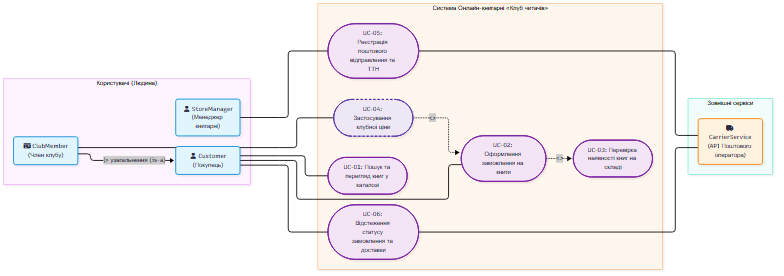
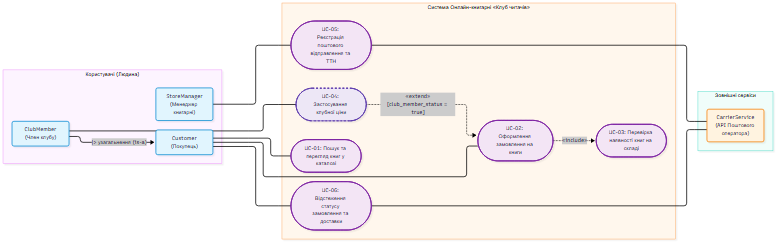
refactor(lab-2): regenerate requirements and use case diagram from refined spec

diff --git a/Labs/lab-2/requirements.md b/Labs/lab-2/requirements.md
@@ -9,7 +9,7 @@
 
 ## 1. Структуровані вимоги за шаблоном EARS
 
-Вимоги формалізовано відповідно до синтаксису **EARS (Easy Approach to Requirements Syntax)**, що забезпечує однозначність, структурованість і тестованість. Задіяно всі основні патерни EARS: *Event-driven*, *Unwanted behaviour*, *State-driven / Complex*, *Optional feature*, *Ubiquitous*. Усі сутності та атрибути точно відповідають ER-моделі Завдання 1 (`Customer`, `Author`, `Book`, `Order`, `OrderItem`, `Shipment`).
+Вимоги формалізовано відповідно до синтаксису **EARS (Easy Approach to Requirements Syntax)**, що забезпечує однозначність, атомарність, структурованість і тестованість. Кожна вимога містить рівно одну конструкцію `SHALL`, один визначений тригер або стан без конструкцій «або» та без вкладених умов. Задіяно всі основні патерни EARS: *Event-driven*, *Unwanted behaviour*, *State-driven / Complex*, *Optional feature*, *Ubiquitous*. Усі сутності та атрибути точно відповідають ER-моделі Завдання 1 (`Customer`, `Author`, `Book`, `Order`, `OrderItem`, `Shipment`).
 
 ### REQ-01: Пошук та фільтрація книг за автором або назвою
 * **Шаблон EARS:** *Event-driven* (`WHEN <trigger>, the <system> SHALL <response>`)
@@ -23,9 +23,9 @@
 ### REQ-02: Валідація залишку на складі перед оформленням
 * **Шаблон EARS:** *Unwanted behaviour* (`IF <trigger/condition>, THEN the <system> SHALL <response>`)
 * **Формулювання:**
-  > **IF** запитана покупцем кількість примірників у позиції замовлення перевищує доступний залишок на складі (`OrderItem.quantity > Book.stock_quantity`), **THEN the Bookstore System SHALL** відхилити додавання цієї позиції до замовлення, заблокувати перехід `Order.status` у підтверджений стан (`confirmed`) та повернути повідомлення про помилку із зазначенням доступної кількості.
+  > **IF** запитана покупцем кількість примірників у позиції замовлення перевищує доступний залишок на складі (`OrderItem.quantity > Book.stock_quantity`), **THEN the Bookstore System SHALL** відхилити додавання цієї позиції до замовлення, заблокувати перехід `Order.status` у стан `confirmed` та повернути повідомлення про помилку із зазначенням доступної кількості.
 * **Сутності та атрибути ER:** `Book` (`id`, `stock_quantity`), `OrderItem` (`quantity`, `book_id`), `Order` (`status`).
-* **Бізнес-контекст:** Реалізує захист від перепродажу (overselling) та гарантує виконання обов'язкової частини оформлення замовлення (UC-03 включено в UC-02).
+* **Бізнес-контекст:** Реалізує захист від перепродажу (overselling) та гарантує виконання обов'язкової частини оформлення замовлення (UC-03 «include» в UC-02).
 
 ---
 
@@ -43,25 +43,25 @@
 * **Формулювання:**
   > **WHERE** профіль покупця має активний статус члена клубу (`Customer.club_member_status = true`), **the Bookstore System SHALL** розраховувати та фіксувати значення `OrderItem.unit_price` зі спеціальною клубною знижкою 15% від базової ціни `Book.price` на момент оформлення замовлення.
 * **Сутності та атрибути ER:** `Customer` (`id`, `club_member_status`), `Book` (`id`, `price`), `OrderItem` (`id`, `unit_price`).
-* **Бізнес-контекст:** Забезпечує опціональне розширення оформлення замовлення (UC-04 `<<extend>>` UC-02) для спеціалізованого актора `ClubMember`.
+* **Бізнес-контекст:** Забезпечує опціональне розширення оформлення замовлення (UC-04 «extend» UC-02) для спеціалізованого актора `ClubMember`.
 
 ---
 
 ### REQ-05: Реєстрація поштового відправлення через API перевізника
 * **Шаблон EARS:** *Event-driven* (`WHEN <trigger>, the <system> SHALL <response>`)
 * **Формулювання:**
-  > **WHEN** StoreManager підтверджує готовність скомплектованого замовлення зі статусом `Order.status = 'processing'`, **the Bookstore System SHALL** надіслати запит на реєстрацію відправлення до API обраного сервісу доставки (`CarrierService` із параметром `carrier: nova_poshta | ukrposhta | courier`), створити запис `Shipment` з отриманим трек-номером (`tracking_number`), адресою (`delivery_address`), позначкою часу (`shipped_at`), статусом `delivery_status = 'dispatched'` та оновити `Order.status` на `'shipped'`.
+  > **WHEN** StoreManager підтверджує готовність скомплектованого замовлення зі статусом `Order.status = 'processing'`, **the Bookstore System SHALL** надіслати запит на реєстрацію відправлення до API обраного сервісу доставки (`CarrierService` із вибором `carrier: nova_poshta | ukrposhta | courier`), створити запис `Shipment` з отриманим трек-номером (`tracking_number`), адресою (`delivery_address`), позначкою часу (`shipped_at`), початковим статусом `delivery_status = 'dispatched'` та перевести `Order.status` у стан `'shipped'`.
 * **Сутності та атрибути ER:** `Order` (`id`, `status`), `Shipment` (`id`, `order_id`, `carrier`, `tracking_number`, `delivery_address`, `shipped_at`, `delivery_status`).
 * **Бізнес-контекст:** Взаємодія внутрішнього менеджера та зовнішньої служби доставки (UC-05).
 
 ---
 
 ### REQ-06: Синхронізація статусу доставки та завершення замовлення
-* **Шаблон EARS:** *Event-driven* (`WHEN <trigger>, the <system> SHALL <response>`)
+* **Шаблон EARS:** *Event-driven* (`WHEN <trigger>, the <system> SHALL <response>`) — *Атомарна вимога*
 * **Формулювання:**
-  > **WHEN** зовнішній сервіс `CarrierService` надсилає webhook-повідомлення або відповідь на опитування про зміну стану доставки, **the Bookstore System SHALL** оновити значення `Shipment.delivery_status`, а якщо статус доставки змінився на `'delivered'`, **the Bookstore System SHALL** автоматично встановити `Order.status = 'delivered'`.
+  > **WHEN** зовнішній сервіс `CarrierService` надсилає webhook-повідомлення про фінальне вручення посилки зі статусом `delivery_status = 'delivered'`, **the Bookstore System SHALL** оновити значення `Shipment.delivery_status` на `'delivered'` та перевести статус пов'язаного замовлення `Order.status` у стан `'delivered'`.
 * **Сутності та атрибути ER:** `Shipment` (`id`, `delivery_status`, `tracking_number`), `Order` (`id`, `status`).
-* **Бізнес-контекст:** Відстеження поштового відправлення та автоматичне закриття життєвого циклу замовлення (UC-06).
+* **Бізнес-контекст:** Фіналізація життєвого циклу доставки та замовлення на основі події від зовнішнього логістичного партнера (UC-06).
 
 ---
 
@@ -71,6 +71,24 @@
   > **The Bookstore System SHALL** гарантувати незмінність значення `OrderItem.unit_price` у збережених замовленнях за будь-яких подальших змін базової ціни `Book.price` у каталозі книг.
 * **Сутності та атрибути ER:** `OrderItem` (`id`, `unit_price`), `Book` (`id`, `price`), `Order` (`id`, `status`).
 * **Бізнес-контекст:** Забезпечує фінансову цілісність, відповідність вимогам 3-ї нормальної форми та узгодженість з архітектурним рішенням Завдання 1 (UC-02, UC-06).
+
+---
+
+### REQ-08: Сповіщення клієнта про передачу замовлення перевізнику
+* **Шаблон EARS:** *Event-driven* (`WHEN <trigger>, the <system> SHALL <response>`)
+* **Формулювання:**
+  > **WHEN** статус замовлення переходить у стан `Order.status = 'shipped'`, **the Bookstore System SHALL** згенерувати та надіслати повідомлення про відправлення із зазначенням трек-номера `Shipment.tracking_number` та служби `Shipment.carrier` на електронну адресу `Customer.email` та контактний телефон `Customer.phone` покупця.
+* **Сутності та атрибути ER:** `Order` (`status`), `Shipment` (`tracking_number`, `carrier`), `Customer` (`email`, `phone`).
+* **Бізнес-контекст:** Оперативне інформування покупця через комунікаційні канали зв'язку. Вимога зафіксована у специфікації для повної узгодженості атрибутів моделі даних, проте винесена за межі поточної ітерації (Out of Scope / Непокрита).
+
+---
+
+### REQ-09: Клієнтське скасування замовлення у стані очікування
+* **Шаблон EARS:** *State-driven / Complex* (`WHILE <state>, WHEN <trigger>, the <system> SHALL <response>`)
+* **Формулювання:**
+  > **WHILE** замовлення перебуває у стані очікування `Order.status = 'pending'`, **WHEN** покупець (`Customer`) ініціює дію скасування, **the Bookstore System SHALL** перевести статус замовлення в `Order.status = 'cancelled'` та збільшити складський залишок `Book.stock_quantity` на кількість примірників `OrderItem.quantity` із кожного рядка скасованого замовлення.
+* **Сутності та атрибути ER:** `Order` (`status`, `customer_id`), `Customer` (`id`), `OrderItem` (`quantity`), `Book` (`stock_quantity`).
+* **Бізнес-контекст:** Можливість відмови від замовлення до моменту його передачі в комплектацію з автоматичним поверненням зарезервованого товару на склад. Винесена в беклог наступного релізу (Out of Scope / Непокрита).
 
 ---
 
@@ -103,7 +121,7 @@
   > **Як** Покупець,  
   > **я хочу** обрати необхідну кількість примірників книг та оформити замовлення з автоматичною перевіркою залишку,  
   > **для того щоб** гарантовано придбати тільки ті книги, які реально присутні на складі книгарні.
-* **Пов'язані прецеденти:** `UC-02`, `UC-03` (`<<include>>`)
+* **Пов'язані прецеденти:** `UC-02`, `UC-03` (`«include»`)
 * **Критерії прийнятності (Acceptance Criteria):**
   1. Під час формування замовлення система автоматично перевіряє умову `Book.stock_quantity >= OrderItem.quantity` для кожного обраного найменування.
   2. Якщо хоча б однієї книги недостатньо, замовлення не створюється, статус залишається непогодженим, а користувач бачить попередження із зазначенням доступної кількості.
@@ -118,7 +136,7 @@
   > **Як** Член читацького клубу книгарні,  
   > **я хочу**, щоб під час оформлення замовлення до моїх книг автоматично застосовувалася спеціальна клубна ціна,  
   > **для того щоб** користуватися фінансовими привілеями членства клубу.
-* **Пов'язані прецеденти:** `UC-02`, `UC-04` (`<<extend>>`)
+* **Пов'язані прецеденти:** `UC-02`, `UC-04` (`«extend» [club_member_status = true]`)
 * **Критерії прийнятності (Acceptance Criteria):**
   1. Система визначає статус покупця `Customer.club_member_status = true`.
   2. Для кожної позиції замовлення клубна ціна обраховується як `Book.price * 0.85` (знижка 15%) і записується в `OrderItem.unit_price`.
@@ -162,7 +180,7 @@
 
 ## 3. Сценарії Gherkin (Given / When / Then)
 
-Сценарії приймального тестування покривають головні прецеденти використання системи (`UC-01` .. `UC-06`), перевіряючи позитивні потоки, граничні умови та обробку помилок.
+Сценарії приймального тестування покривають реалізовані прецеденти використання системи (`UC-01` .. `UC-06`), перевіряючи позитивні потоки, граничні умови та обробку виняткових ситуацій.
 
 ```gherkin
 Feature: Онлайн-книгарня «Клуб читачів» (Online Bookstore System)
@@ -202,7 +220,7 @@ Feature: Онлайн-книгарня «Клуб читачів» (Online Books
     Given покупець Customer із параметром club_member_status = false
     And книга "Інтернат" має stock_quantity = 5 та price = 300.00
     When покупець оформлює замовлення Order на 2 примірники книги "Інтернат"
-    Then система обов'язково перевіряє наявність книг на складі
+    Then система обов'язково перевіряє наявність книг на складі за зв'язком «include»
     And створюється запис Order зі статусом "confirmed"
     And створюється запис OrderItem із quantity = 2 та unit_price = 300.00
     And залишок stock_quantity книги "Інтернат" стає рівним 3
@@ -221,14 +239,14 @@ Feature: Онлайн-книгарня «Клуб читачів» (Online Books
     And залишок stock_quantity для книги "Ворошиловград" залишається рівним 2
 
   # ----------------------------------------------------------------------------
-  # UC-02 + UC-04: Застосування клубної ціни (<<extend>>)
+  # UC-02 + UC-04: Застосування клубної ціни («extend» [club_member_status = true])
   # ----------------------------------------------------------------------------
   @discount @club_member @UC-02 @UC-04
   Scenario: Оформлення замовлення членом клубу із застосуванням клубної знижки
     Given авторизовано користувача ClubMember із club_member_status = true
     And у каталозі книга "Інтернат" має базову price = 300.00 та stock_quantity = 5
     When член клубу підтверджує замовлення на 1 примірник книги "Інтернат"
-    Then спрацьовує правило розширення <<extend>> для застосування клубної ціни
+    Then спрацьовує правило розширення «extend» [club_member_status = true]
     And створюється позиція OrderItem із quantity = 1
     And зафіксована ціна OrderItem.unit_price дорівнює 255.00
     And при подальшій зміні базової вартості книги у каталозі до 350.00 значення unit_price у замовленні залишається 255.00
@@ -266,7 +284,7 @@ Feature: Онлайн-книгарня «Клуб читачів» (Online Books
 ## 4. Матриця трасування (Traceability Matrix) зі зв'язками M:N
 
 Матриця демонструє повну двосторонню трасованість між усіма артефактами аналізу вимог:
-* **REQ**: Структуровані вимоги EARS (`REQ-01` .. `REQ-07`)
+* **REQ**: Структуровані вимоги EARS (`REQ-01` .. `REQ-09`)
 * **US**: Користувацькі історії (`US-01` .. `US-05`)
 * **UC**: Прецеденти використання діаграми (`UC-01` .. `UC-06`)
 * **Gherkin**: Сценарії приймальних тестів (Сценарії 1 .. 6)
@@ -280,8 +298,10 @@ Feature: Онлайн-книгарня «Клуб читачів» (Online Books
 | **REQ-03** | *State-driven / Complex* | Створення замовлення, списання залишків та зміна статусу | `US-02`, `US-03` | `UC-02`, `UC-03` | Сценарій 2 (Успішне оформлення), Сценарій 4 (Клубне замовлення) |
 | **REQ-04** | *Optional feature* | Застосування клубної знижки (`club_member_status = true`) | `US-03` | `UC-02`, `UC-04` | Сценарій 4 (Клубне замовлення) |
 | **REQ-05** | *Event-driven* | Реєстрація відправлення в `CarrierService` та генерація ТТН | `US-04` | `UC-05` | Сценарій 5 (Реєстрація ТТН менеджером) |
-| **REQ-06** | *Event-driven* | Синхронізація статусу доставки та автозакриття замовлення | `US-04`, `US-05` | `UC-05`, `UC-06` | Сценарій 6 (Оновлення статусу та вручення) |
+| **REQ-06** | *Event-driven* | Синхронізація доставки при webhook `delivered` та закриття `Order` | `US-04`, `US-05` | `UC-05`, `UC-06` | Сценарій 6 (Оновлення статусу та вручення) |
 | **REQ-07** | *Ubiquitous* | Незмінність історичної ціни `OrderItem.unit_price` | `US-02`, `US-03`, `US-05` | `UC-02`, `UC-06` | Сценарій 2 (Успішне оформлення), Сценарій 4 (Клубне замовлення) |
+| **REQ-08** | *Event-driven* | Надсилання сповіщення з ТТН на `email` та `phone` при `shipped` | `— [Непокрита]` | `— [Непокрита: Out of Scope]` | `— [Непокрита]` |
+| **REQ-09** | *State-driven / Complex* | Скасування замовлення покупцем у статусі `pending` на `cancelled` | `— [Непокрита]` | `— [Непокрита: Out of Scope]` | `— [Непокрита]` |
 
 ---
 
@@ -309,21 +329,63 @@ Feature: Онлайн-книгарня «Клуб читачів» (Online Books
 | :--- | :--- | :--- | :--- | :--- |
 | **UC-01** | Пошук та перегляд книг у каталозі | `REQ-01` | `US-01` | Сценарій 1 |
 | **UC-02** | Оформлення замовлення на книги | `REQ-02`, `REQ-03`, `REQ-04`, `REQ-07` | `US-02`, `US-03` | Сценарій 2, Сценарій 3, Сценарій 4 |
-| **UC-03** | Перевірка наявності книг на складі (`<<include>>`) | `REQ-02`, `REQ-03` | `US-02` | Сценарій 2, Сценарій 3 |
-| **UC-04** | Застосування клубної ціни (`<<extend>>`) | `REQ-04`, `REQ-07` | `US-03` | Сценарій 4 |
+| **UC-03** | Перевірка наявності книг на складі (`«include»`) | `REQ-02`, `REQ-03` | `US-02` | Сценарій 2, Сценарій 3 |
+| **UC-04** | Застосування клубної ціни (`«extend» [club_member_status = true]`) | `REQ-04`, `REQ-07` | `US-03` | Сценарій 4 |
 | **UC-05** | Реєстрація поштового відправлення та ТТН | `REQ-05`, `REQ-06` | `US-04` | Сценарій 5, Сценарій 6 |
 | **UC-06** | Відстеження статусу замовлення та доставки | `REQ-06`, `REQ-07` | `US-05` | Сценарій 6 |
 
 ---
 
-### 4.4. Відповідність сутностей та зв'язків ER-моделі (Завдання 1)
+### 4.4. Аналіз та обґрунтування непокритих вимог (Out of Scope Requirements)
 
-| Сутність з ER-моделі | Ключові атрибути у вимогах | Де задіяна у вимогах та прецедентах |
-| :--- | :--- | :--- |
-| **`Customer`** | `id`, `full_name`, `club_member_status` | `REQ-01`, `REQ-03`, `REQ-04`, `US-01`, `US-02`, `US-03`, `UC-01`, `UC-02`, `UC-04` |
-| **`Author`** | `id`, `full_name`, `bio` | `REQ-01`, `US-01`, `UC-01` |
-| **`Book`** | `id`, `isbn`, `title`, `price`, `stock_quantity` | `REQ-01`, `REQ-02`, `REQ-03`, `REQ-04`, `REQ-07`, `US-01`, `US-02`, `UC-01`, `UC-02`, `UC-03`, `UC-04` |
-| **`Order`** | `id`, `customer_id`, `order_date`, `status` | `REQ-02`, `REQ-03`, `REQ-05`, `REQ-06`, `REQ-07`, `US-02`, `US-04`, `US-05`, `UC-02`, `UC-05`, `UC-06` |
-| **`OrderItem`** | `id`, `order_id`, `book_id`, `quantity`, `unit_price` | `REQ-02`, `REQ-03`, `REQ-04`, `REQ-07`, `US-02`, `US-03`, `UC-02`, `UC-03`, `UC-04` |
-| **`Shipment`** | `id`, `order_id`, `carrier`, `tracking_number`, `delivery_address`, `shipped_at`, `delivery_status` | `REQ-05`, `REQ-06`, `US-04`, `US-05`, `UC-05`, `UC-06` |
+У ході інженерного аналізу меж системи (System Boundaries) та планування першої ітерації було зафіксовано вимоги, які залишаються **непокритими** діаграмою прецедентів `model.mmd` та сценаріями приймального тестування Gherkin:
 
+1. **Обґрунтування непокриття `REQ-08` (Push-сповіщення через Email та SMS):**
+   * **Причина:** Реалізація автоматичних повідомлень покупця на контактні реквізити `Customer.email` та `Customer.phone` вимагає підключення зовнішнього комунікаційного шлюзу (`Notification Gateway` — поштовий SMTP-сервіс або SMS/Viber-провайдер).
+   * **Межі поточної ітерації:** Архітектура першого релізу фокусується виключно на логістичній інтеграції (`CarrierService`). Інформування покупця реалізовано через **pull-модель** в особистому кабінеті (`UC-06`: Відстеження статусу замовлення та доставки за номером ТТН).
+   * **Рішення:** Вимогу `REQ-08` формалізовано для резервування зв'язку з реквізитами `Customer.email` і `Customer.phone`, а прецедент `Send Dispatch Notification` заплановано до включення в Use Case модель другої ітерації (після вибору сервіс-провайдера сповіщень).
+
+2. **Обґрунтування непокриття `REQ-09` (Клієнтське скасування замовлення у стані `pending`):**
+   * **Причина:** Прецедент скасування замовлення покупцем з переведенням у `Order.status = 'cancelled'` тягне за собою транзакційну логіку відкату (компенсаційне повернення списаних одиниць `Book.stock_quantity`), а також регламент часового вікна (time-to-live), протягом якого замовлення вважається дійсним у статусі очікування.
+   * **Межі поточної ітерації:** Перша ітерація моделює основний життєвий цикл виконання замовлення («Happy Path») від вибору товару до доставки перевізником та критичні валідації нестачі залишків.
+   * **Рішення:** Вимогу `REQ-09` внесено до беклогу розширеного функціоналу управління замовленнями. Статус `Order.status = 'cancelled'` збережено в доменній моделі та відображено в описі атрибутів сутності `Order`.
+
+---
+
+### 4.5. Повна звірка атрибутів із моделлю даних Завдання 1 (`Labs/lab-1/model.mmd`)
+
+Таблиця містить **абсолютно всі атрибути всіх 6 сутностей** концептуальної ER-моделі Завдання 1 без винятків та показує їх використання у вимогах, історіях і прецедентах.
+
+| Сутність ER | Атрибут моделі | Тип даних (ER) | Призначення в домені | Де задіяно у вимогах, історіях, UC та тестах |
+| :--- | :--- | :--- | :--- | :--- |
+| **`Customer`** | `id` | UUID (PK) | Унікальний ідентифікатор покупця | `REQ-03`, `REQ-04`, `REQ-09`, `US-01`..`US-03`, `UC-01`..`UC-04` |
+| | `email` | string | Електронна пошта для сповіщень | `REQ-08` (адреса надсилання трек-номера ТТН) |
+| | `phone` | string | Номер мобільного телефону | `REQ-08` (контакт для SMS-інформування про відправку) |
+| | `full_name` | string | ПІБ або нікнейм покупця | `REQ-01`, `US-01`, `UC-01` (профіль користувача) |
+| | `club_member_status` | boolean | Ознака активного члена клубу | `REQ-04`, `US-03`, `UC-04`, Gherkin (Сценарій 4) |
+| | `created_at` | timestamp | Дата та час реєстрації профілю | Базовий атрибут аудиту, перевірка клубного стажу |
+| **`Author`** | `id` | UUID (PK) | Унікальний ідентифікатор автора | `REQ-01`, `US-01`, `UC-01` |
+| | `full_name` | string | Повне ім'я та прізвище автора | `REQ-01`, `US-01`, `UC-01`, Gherkin (Сценарій 1, Background) |
+| | `bio` | string | Коротка творча біографія автора | `REQ-01`, `US-01`, `UC-01`, Gherkin (Background) |
+| **`Book`** | `id` | UUID (PK) | Унікальний ідентифікатор книги | `REQ-01`, `REQ-02`, `REQ-03`, `REQ-04`, `REQ-07`, `REQ-09` |
+| | `isbn` | string | Міжнародний стандартний номер книги | `REQ-01`, `US-01`, `UC-01`, Gherkin (Background) |
+| | `title` | string | Назва книги | `REQ-01`, `US-01`, `UC-01`, Gherkin (Сценарій 1, Background) |
+| | `publication_year` | integer | Рік видання | `REQ-01`, `US-01`, `UC-01`, Gherkin (Background) |
+| | `price` | decimal | Базова каталожна ціна книги | `REQ-01`, `REQ-03`, `REQ-04`, `REQ-07`, `US-01`..`US-03`, `UC-01`, `UC-02`, `UC-04`, Gherkin (Сценарій 2, 4) |
+| | `stock_quantity` | integer | Доступний залишок на складі | `REQ-01`, `REQ-02`, `REQ-03`, `REQ-09`, `US-01`, `US-02`, `UC-01`, `UC-02`, `UC-03`, Gherkin (Сценарій 1, 2, 3) |
+| **`Order`** | `id` | UUID (PK) | Унікальний ідентифікатор замовлення | `REQ-03`, `REQ-05`, `REQ-06`, `REQ-07`, `REQ-09`, `US-02`, `US-04`, `US-05`, `UC-02`, `UC-05`, `UC-06` |
+| | `customer_id` | UUID (FK) | Зовнішній ключ зв'язку з покупцем | `REQ-03`, `REQ-09`, `US-02`, `UC-02` |
+| | `order_date` | timestamp | Дата та час оформлення замовлення | `REQ-03`, `US-02`, `UC-02` |
+| | `status` | string | Статус замовлення (`pending`, `confirmed`, `processing`, `shipped`, `delivered`, `cancelled`) | `REQ-02`, `REQ-03`, `REQ-05`, `REQ-06`, `REQ-08`, `REQ-09`, `US-02`, `US-04`, `US-05`, `UC-02`, `UC-05`, `UC-06`, Gherkin (Сценарій 2, 3, 5, 6) |
+| **`OrderItem`** | `id` | UUID (PK) | Унікальний ідентифікатор рядка | `REQ-03`, `REQ-04`, `REQ-07`, `US-02`, `US-03`, `UC-02` |
+| | `order_id` | UUID (FK) | Зовнішній ключ замовлення | `REQ-03`, `US-02`, `UC-02` |
+| | `book_id` | UUID (FK) | Зовнішній ключ обраної книги | `REQ-02`, `REQ-03`, `REQ-04`, `REQ-07`, `US-02`, `UC-02` |
+| | `quantity` | integer | Замовлена кількість примірників | `REQ-02`, `REQ-03`, `REQ-04`, `REQ-09`, `US-02`, `US-03`, `UC-02`, `UC-03`, Gherkin (Сценарій 2, 3, 4) |
+| | `unit_price` | decimal | Історична ціна на момент продажу | `REQ-03`, `REQ-04`, `REQ-07`, `US-02`, `US-03`, `UC-02`, `UC-04`, Gherkin (Сценарій 2, 4) |
+| **`Shipment`** | `id` | UUID (PK) | Унікальний ідентифікатор відправлення | `REQ-05`, `REQ-06`, `US-04`, `US-05`, `UC-05`, `UC-06` |
+| | `order_id` | UUID (FK) | Зовнішній ключ прив'язки до `Order` | `REQ-05`, `REQ-06`, `US-04`, `US-05`, `UC-05`, `UC-06` |
+| | `carrier` | string | Служба доставки (`nova_poshta`, `ukrposhta`, `courier`) | `REQ-05`, `REQ-08`, `US-04`, `US-05`, `UC-05`, Gherkin (Сценарій 5, 6) |
+| | `tracking_number` | string | Номер ТТН для відстеження | `REQ-05`, `REQ-06`, `REQ-08`, `US-04`, `US-05`, `UC-05`, `UC-06`, Gherkin (Сценарій 5, 6) |
+| | `delivery_address` | string | Адреса доставки (відділення/вулиця) | `REQ-05`, `US-04`, `UC-05`, Gherkin (Сценарій 5) |
+| | `shipped_at` | timestamp | Дата та час передачі перевізнику | `REQ-05`, `US-04`, `UC-05` |
+| | `delivery_status` | string | Поточний статус від перевізника (`dispatched`, `in_transit`, `delivered`) | `REQ-05`, `REQ-06`, `US-04`, `US-05`, `UC-05`, `UC-06`, Gherkin (Сценарій 5, 6) |

diff --git a/Labs/lab-2/ai/prompts.md b/Labs/lab-2/ai/prompts.md
@@ -9,3 +9,15 @@
    - Сценарії Gherkin (Given/When/Then) для ключових прецедентів.
    - Матрицю трасування у вигляді Markdown-таблиці зі зв'язками багато-до-багатьох (M:N) між REQ, US, UC та Gherkin.
 2. `Labs/lab-2/model.mmd` — діаграма Use Case у синтаксисі Mermaid (`flowchart LR`), яка відображає межі системи, акторів (Customer, ClubMember з узагальненням, StoreManager, зовнішню систему CarrierService), прецеденти UC-01..UC-06 та зв'язки `<<include>>` і `<<extend>>`.
+
+## Промпт 2: Усунення розбіжностей за результатами аудиту (EARS, Use Case діаграма та непокриті вимоги)
+Онови файли `Labs/lab-2/requirements.md`, `Labs/lab-2/model.mmd` та перегенеруй `Labs/lab-2/diagram.png` відповідно до уточнених критеріїв у `Labs/lab-2/spec.md`:
+1. У `Labs/lab-2/model.mmd`:
+   - Заміни `<<include>>` та `<<extend>>` на видимі лапки `«include»` та `«extend» [club_member_status = true]`, щоб парсер Mermaid не вирізав їх як HTML-теги `<>` на PNG-рендері.
+   - Прибери сирі текстові коди `fa:fa-...` із назв акторів.
+   - Перегенеруй `Labs/lab-2/diagram.png` через mermaid-cli та перевір, що підписи `«include»` і `«extend»` чітко видно на зображенні.
+2. У `Labs/lab-2/requirements.md`:
+   - Виправ `REQ-06` для дотримання атомарності EARS: залиш один чіткий тригер (отримання webhook-події від `CarrierService`) та одне атомарне правило `SHALL` без подвійних `SHALL` і без конструкції «або».
+   - Додай вимоги `REQ-08` (надсилання сповіщення з `Shipment.tracking_number` на `Customer.email` та `Customer.phone` при переході в `shipped`) та `REQ-09` (скасування замовлення покупцем у статус `Order.status = 'cancelled'`, поки воно у стані `pending`), які використовують решту атрибутів ER-моделі Завдання 1.
+   - У Матриці трасування (розділ 4) явно познач `REQ-08` та `REQ-09` як **НЕПОКРИТІ (`— [Непокрита]`)** прецедентами Use Case та сценаріями Gherkin і додай окремий підрозділ із поясненням причин непокриття (межі поточної ітерації системи та відсутність зовнішнього Notification Gateway).
+   - У таблиці 4.4 (звірка з ER-моделлю Завдання 1) перелічи абсолютно всі атрибути кожної з 6 сутностей із `Labs/lab-1/model.mmd`.
